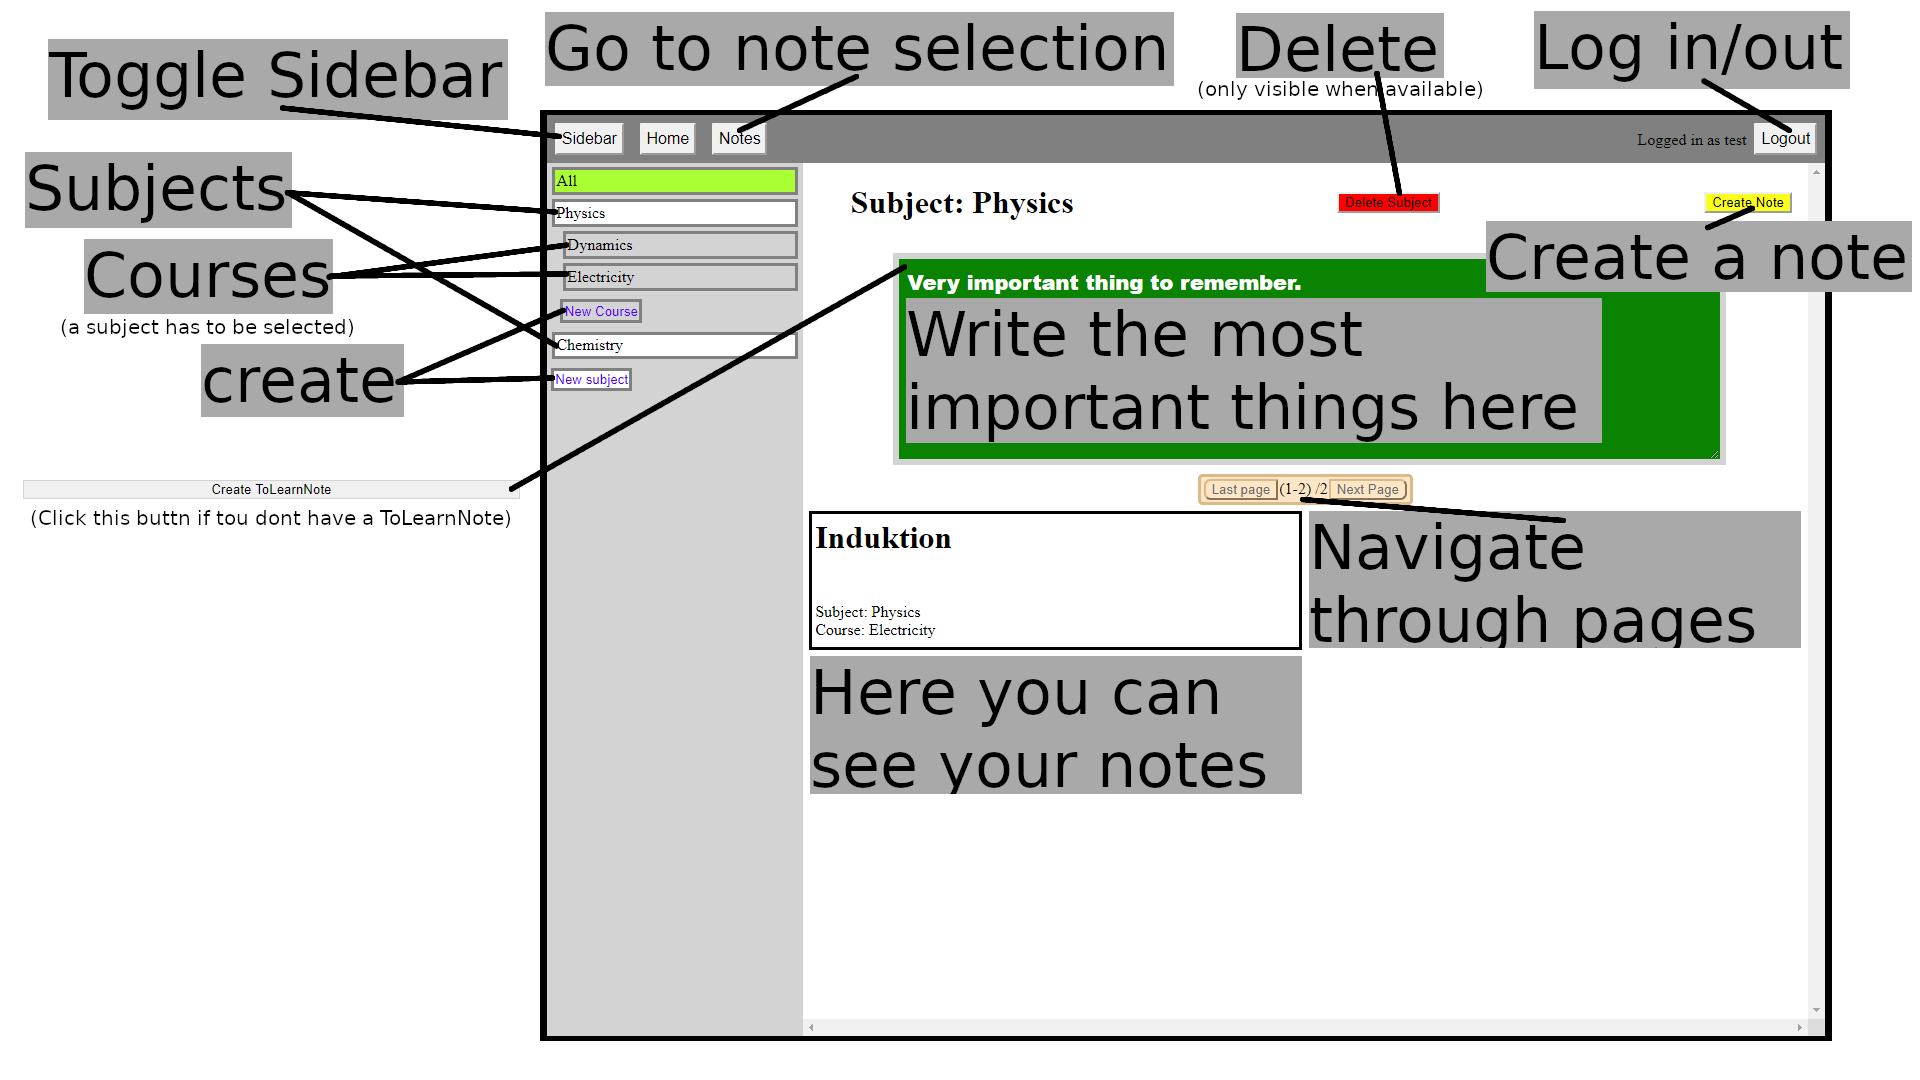
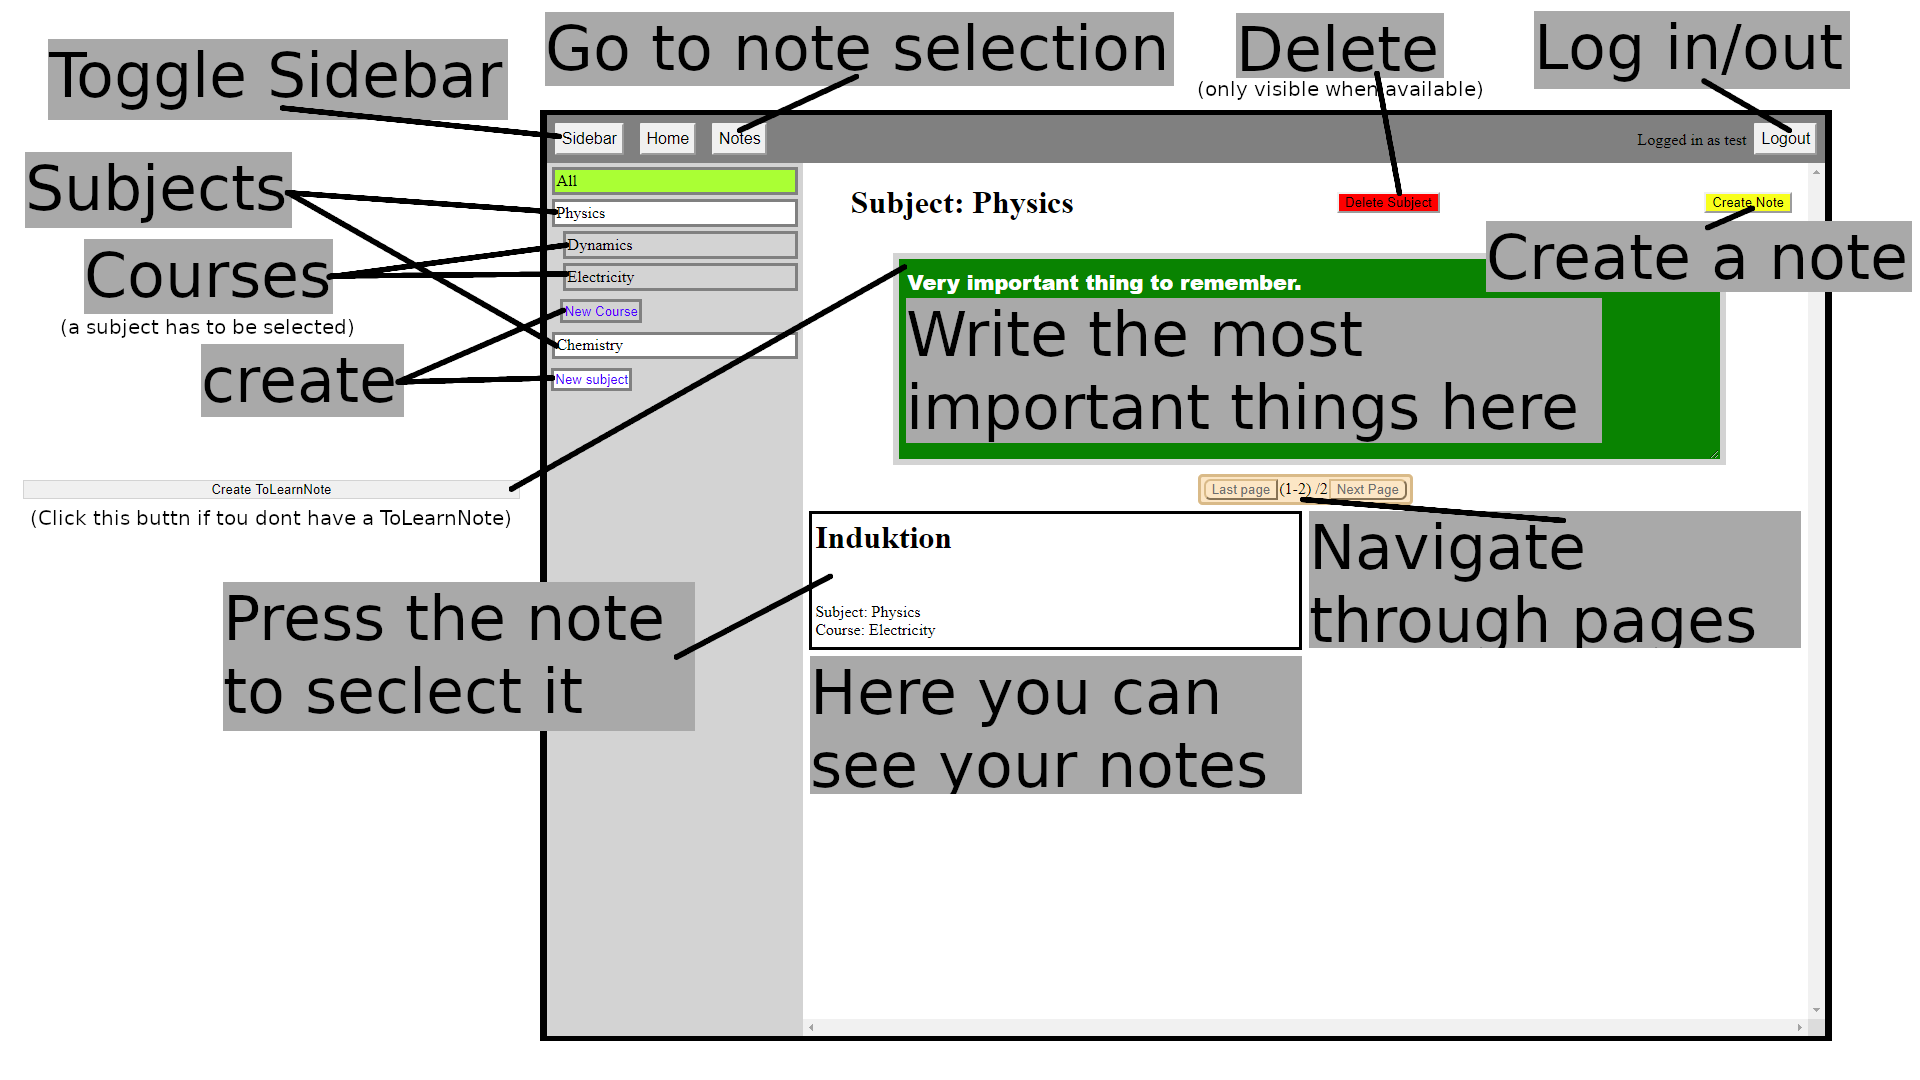
Fixed note selection and added it to the guide

Changed region(s): [[0.0938, 0.5194, 0.4062, 0.7028], [0.4062, 0.5194, 0.4375, 0.55]]

diff --git a/frontend/src/Notes/NoteList/NotePreview.js b/frontend/src/Notes/NoteList/NotePreview.js
@@ -33,9 +33,12 @@ const NotePreview = ({ header, subjects, courses, id }) => {
 	}
 
 	const redirect = () => {
-		const target = match.url.split('/').length === 2
+		const depth = match.url.split('/').length
+		const target = depth === 2
 			? `/n/n${id}`
-			: `n${id}`
+			: depth === 3
+				? `${match.url}/n${id}`
+				: `${match.url.split('/').slice(0, -1).join('/')}/n${id}`
 		history.push(target)
 	}
 

diff --git a/frontend/src/Notes/index.js b/frontend/src/Notes/index.js
@@ -34,6 +34,9 @@ const Notes = () => {
 					<Route exact path={`${match.url}`}>
 						<NoteList />
 					</Route>
+					<Route path={`${match.url}/s:sid/n:id`}>
+						<Note />
+					</Route>
 					<Route path={`${match.url}/shared`}>
 						<NoteList shared />
 					</Route>

diff --git a/tuntikirjanpito.md b/tuntikirjanpito.md
@@ -41,5 +41,6 @@
 |8.3.-13.3. |2		|Optimizing dockerimage
 |10.3.-13.3.|4		|Making guide to homepage
 |13.3.-14.3.|1		|Fixed headerstyle and added disclaimers
+|13.4.		|1		|Fixed note selection and added it to the guide
 
-### yht: 178
+### yht: 179
